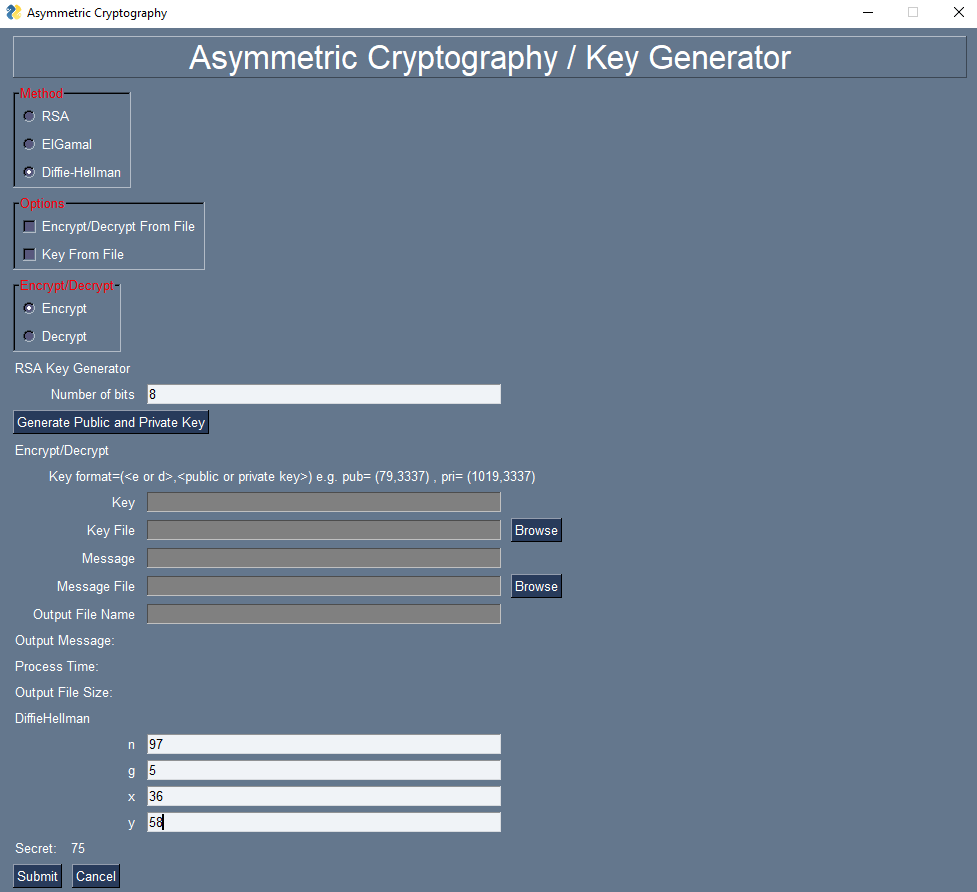
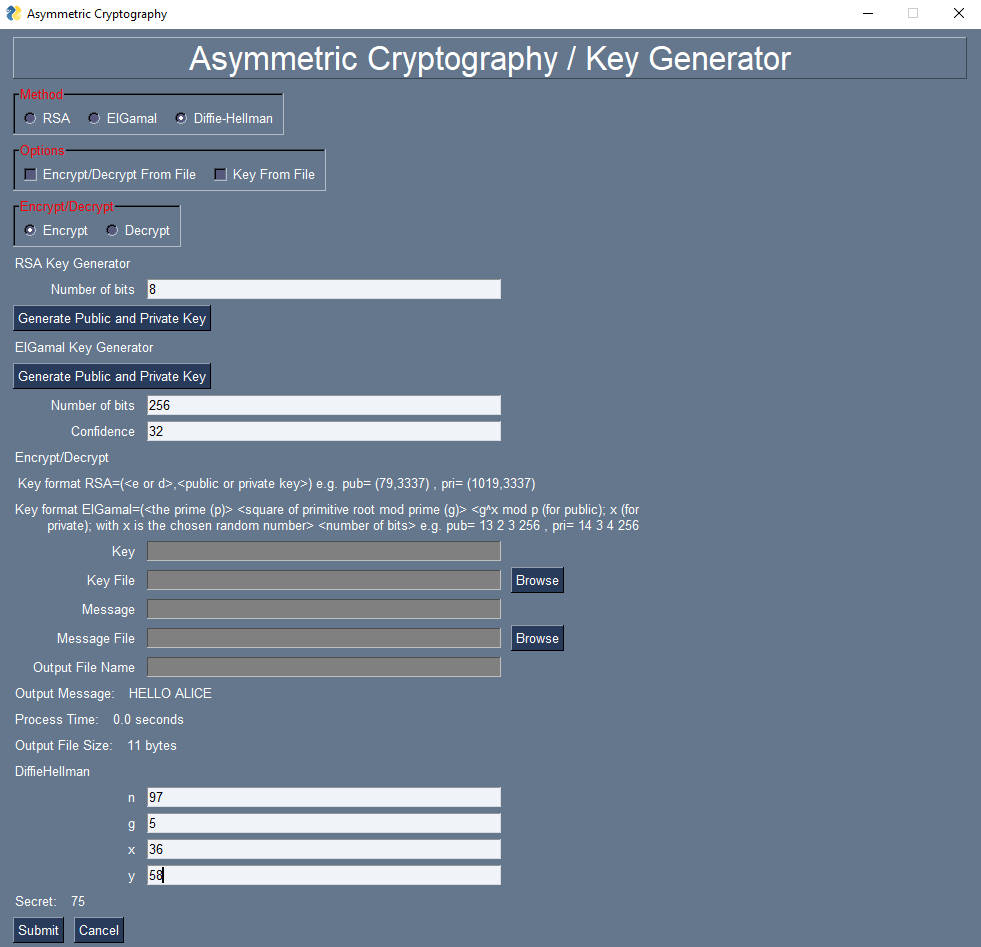
tidy up GUI, update screenshot

Changed region(s): [[0.0, 0.0, 1.0, 0.9383], [0.0, 0.9383, 0.1535, 0.9989]]

diff --git a/GUI.py b/GUI.py
@@ -19,16 +19,13 @@ def save_text_to_file(text, fname="output_file.txt"):
 layout = [
     [sg.Text('Asymmetric Cryptography / Key Generator', size=(50, 1), justification='center', font=("Helvetica", 25), relief=sg.RELIEF_RIDGE)],
     [sg.Frame(layout=[
-    [sg.Radio('RSA', default=True, key="RSA", group_id='Method')],
-    [sg.Radio('ElGamal', default=False, key="ElGamal", group_id='Method')],
-    [sg.Radio('Diffie-Hellman', default=False, key="DH", group_id='Method')],
+    [sg.Radio('RSA', default=True, key="RSA", group_id='Method'),sg.Radio('ElGamal', default=False, key="ElGamal", group_id='Method'),sg.Radio('Diffie-Hellman', default=False, key="DH", group_id='Method')],
     ], title='Method',title_color='red', relief=sg.RELIEF_SUNKEN)],
     [sg.Frame(layout=[
-    [sg.Checkbox('Encrypt/Decrypt From File', default=False, key="EncryptDecryptFromFile")],
-    [sg.Checkbox('Key From File', default=False, key="KeyFromFile")]], title='Options',title_color='red', relief=sg.RELIEF_SUNKEN)],
+    [sg.Checkbox('Encrypt/Decrypt From File', default=False, key="EncryptDecryptFromFile"),sg.Checkbox('Key From File', default=False, key="KeyFromFile")],
+    ], title='Options',title_color='red', relief=sg.RELIEF_SUNKEN)],
     [sg.Frame(layout=[
-        [sg.Radio('Encrypt', default=True, key="Encrypt", group_id='Encrypt')],
-        [sg.Radio('Decrypt', default=False, key="Decrypt", group_id='Encrypt')],
+        [sg.Radio('Encrypt', default=True, key="Encrypt", group_id='Encrypt'),sg.Radio('Decrypt', default=False, key="Decrypt", group_id='Encrypt')],
     ], title='Encrypt/Decrypt',title_color='red', relief=sg.RELIEF_SUNKEN)],
     [sg.Text('RSA Key Generator')],
     [sg.Text('Number of bits', size=(15, 1), auto_size_text=False, justification='right',key="rsa_keygen_bits_text"),sg.InputText(key="input_rsa_keygen_bits",disabled_readonly_background_color="grey", default_text="8")],
@@ -39,7 +36,7 @@ layout = [
     [sg.Text('Confidence', size=(15, 1), auto_size_text=False, justification='right',key="elgamal_keygen_confidence_text"),sg.InputText(key="input_elgamal_keygen_confidence",disabled_readonly_background_color="grey", default_text="32")],
     [sg.Text('Encrypt/Decrypt')],
     [sg.Text('Key format RSA=(<e or d>,<public or private key>) e.g. pub= (79,3337) , pri= (1019,3337)', size=(65, 1), auto_size_text=False, justification='right',key="key_format_rsa",border_width=1)],
-    [sg.Text('Key format ElGamal=(<the prime (p)> <square of primitive root mod prime (g)> <g^x mod p (for public); x (for private); with x is the chosen random number> <number of bits> e.g. pub= 13 2 3 256 , pri= 14 3 4 256', size=(65, 2), auto_size_text=False, justification='right',key="key_format_elgamal",border_width=1)],
+    [sg.Text('Key format ElGamal=(<the prime (p)> <square of primitive root mod prime (g)> <g^x mod p (for public); x (for private); with x is the chosen random number> <number of bits> e.g. pub= 13 2 3 256 , pri= 14 3 4 256', size=(78, 2), auto_size_text=False, justification='right',key="key_format_elgamal",border_width=1)],
     [sg.Text('Key', size=(15, 1), auto_size_text=False, justification='right',key="key_text"),sg.InputText(key="input_key",disabled_readonly_background_color="grey")],
     [sg.Text('Key File', size=(15, 1), auto_size_text=False, justification='right',key="key_file"),sg.InputText(key="input_key_file",disabled_readonly_background_color="grey"), sg.FileBrowse(key='input_file_browse')],
     [sg.Text('Message', size=(15, 1), auto_size_text=False, justification='right',key="input_file_text"),sg.InputText(key="input_message",disabled_readonly_background_color="grey")],
